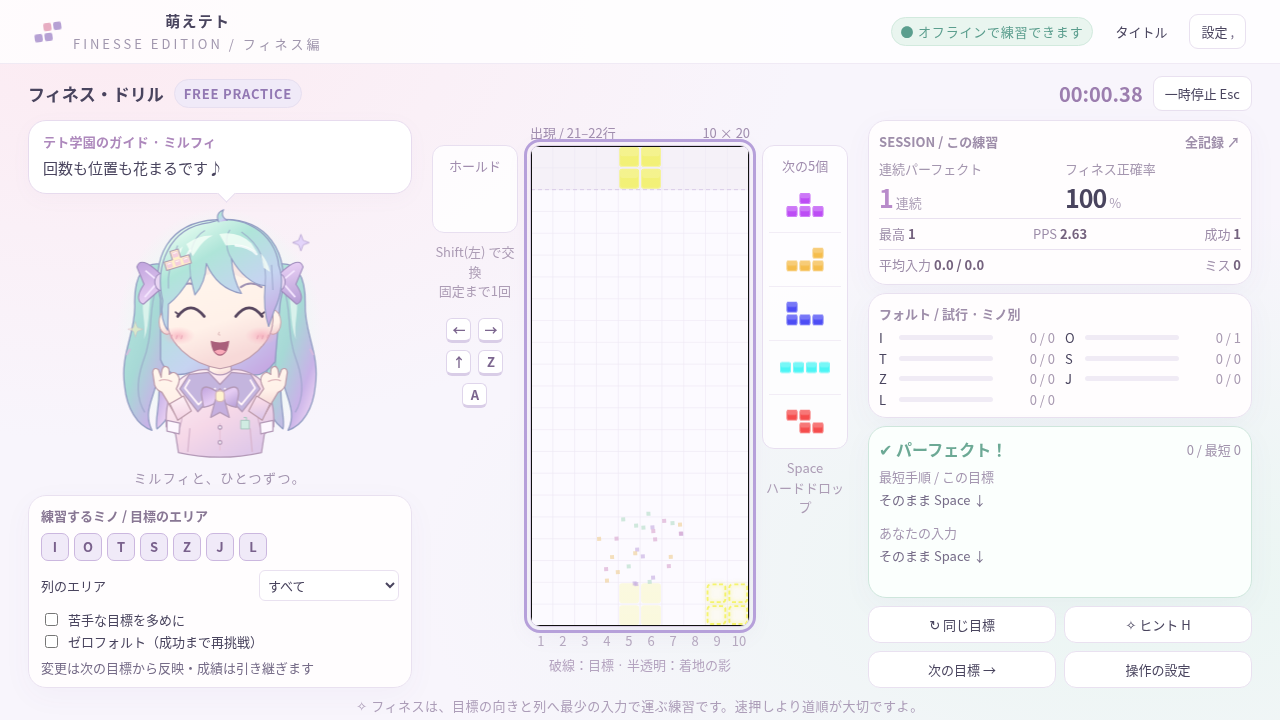
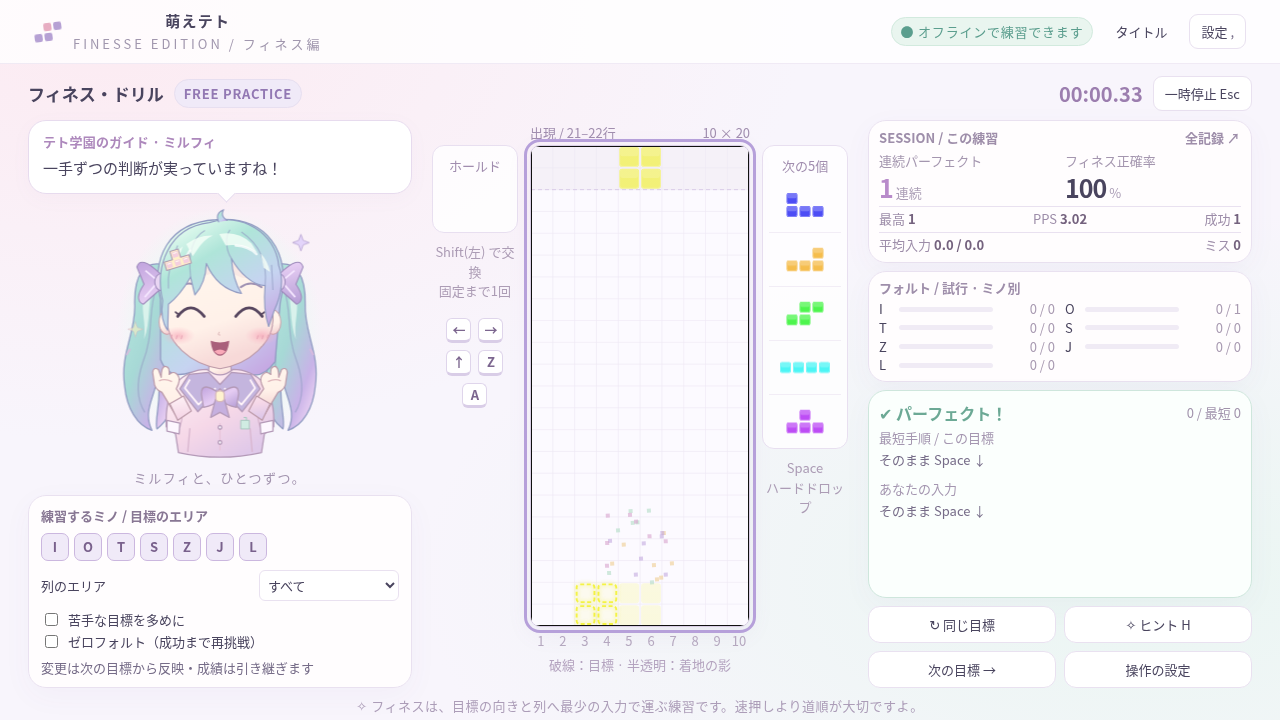
Pass 5: result panel fit, final build and screenshots

diff --git a/dist/moetet-finesse.html b/dist/moetet-finesse.html
@@ -1802,17 +1802,19 @@ body:is([data-screen=menu],[data-screen=tutorial],[data-screen=settings],[data-s
 .checkline,.filter-line { font-size:13px; }
 .filter-line select { width:140px; }
 .right-stack { min-height:0; gap:8px; }
-.right-stack .stats-panel { padding:10px; }
-.right-stack .panel-label { font-size:13px; letter-spacing:0; margin-bottom:7px; }
-.right-stack .stats-strip { font-size:13px; margin-top:6px; padding-top:5px; }
+.right-stack .stats-panel { padding:8px 10px; line-height:1.3; }
+.right-stack .panel-label { font-size:13px; letter-spacing:0; margin-bottom:5px; }
+.right-stack .stats-main label { margin-bottom:2px; }
+.right-stack .stats-strip { font-size:13px; margin-top:4px; padding-top:4px; }
 .stat label,.stat small { font-size:13px; }
-.right-stack .piece-bars { gap:5px 10px; }
+.right-stack .piece-bars { gap:3px 10px; }
 .piece-bar { font-size:13px; grid-template-columns:12px 1fr 54px; }
 .right-stack .piece-bar { line-height:1.2; }
 .right-stack .result-panel { padding:10px; }
 .result-head strong { font-size:16px; }
 .result-head small,.route-label { font-size:13px; letter-spacing:0; }
 .right-stack .result-head { margin-bottom:5px; }
+.right-stack .route-label { margin:4px 0 3px; line-height:1.3; }
 .right-stack .hint-route { margin-top:6px; padding-top:5px; }
 .right-stack .result-panel .sequence { max-height:60px; }
 kbd,.key-help kbd { font-size:13px; }

diff --git a/index.html b/index.html
@@ -1802,17 +1802,19 @@ body:is([data-screen=menu],[data-screen=tutorial],[data-screen=settings],[data-s
 .checkline,.filter-line { font-size:13px; }
 .filter-line select { width:140px; }
 .right-stack { min-height:0; gap:8px; }
-.right-stack .stats-panel { padding:10px; }
-.right-stack .panel-label { font-size:13px; letter-spacing:0; margin-bottom:7px; }
-.right-stack .stats-strip { font-size:13px; margin-top:6px; padding-top:5px; }
+.right-stack .stats-panel { padding:8px 10px; line-height:1.3; }
+.right-stack .panel-label { font-size:13px; letter-spacing:0; margin-bottom:5px; }
+.right-stack .stats-main label { margin-bottom:2px; }
+.right-stack .stats-strip { font-size:13px; margin-top:4px; padding-top:4px; }
 .stat label,.stat small { font-size:13px; }
-.right-stack .piece-bars { gap:5px 10px; }
+.right-stack .piece-bars { gap:3px 10px; }
 .piece-bar { font-size:13px; grid-template-columns:12px 1fr 54px; }
 .right-stack .piece-bar { line-height:1.2; }
 .right-stack .result-panel { padding:10px; }
 .result-head strong { font-size:16px; }
 .result-head small,.route-label { font-size:13px; letter-spacing:0; }
 .right-stack .result-head { margin-bottom:5px; }
+.right-stack .route-label { margin:4px 0 3px; line-height:1.3; }
 .right-stack .hint-route { margin-top:6px; padding-top:5px; }
 .right-stack .result-panel .sequence { max-height:60px; }
 kbd,.key-help kbd { font-size:13px; }

diff --git a/src/style.css b/src/style.css
@@ -1775,17 +1775,19 @@ body:is([data-screen=menu],[data-screen=tutorial],[data-screen=settings],[data-s
 .checkline,.filter-line { font-size:13px; }
 .filter-line select { width:140px; }
 .right-stack { min-height:0; gap:8px; }
-.right-stack .stats-panel { padding:10px; }
-.right-stack .panel-label { font-size:13px; letter-spacing:0; margin-bottom:7px; }
-.right-stack .stats-strip { font-size:13px; margin-top:6px; padding-top:5px; }
+.right-stack .stats-panel { padding:8px 10px; line-height:1.3; }
+.right-stack .panel-label { font-size:13px; letter-spacing:0; margin-bottom:5px; }
+.right-stack .stats-main label { margin-bottom:2px; }
+.right-stack .stats-strip { font-size:13px; margin-top:4px; padding-top:4px; }
 .stat label,.stat small { font-size:13px; }
-.right-stack .piece-bars { gap:5px 10px; }
+.right-stack .piece-bars { gap:3px 10px; }
 .piece-bar { font-size:13px; grid-template-columns:12px 1fr 54px; }
 .right-stack .piece-bar { line-height:1.2; }
 .right-stack .result-panel { padding:10px; }
 .result-head strong { font-size:16px; }
 .result-head small,.route-label { font-size:13px; letter-spacing:0; }
 .right-stack .result-head { margin-bottom:5px; }
+.right-stack .route-label { margin:4px 0 3px; line-height:1.3; }
 .right-stack .hint-route { margin-top:6px; padding-top:5px; }
 .right-stack .result-panel .sequence { max-height:60px; }
 kbd,.key-help kbd { font-size:13px; }

diff --git a/tests/browser.check.js b/tests/browser.check.js
@@ -248,7 +248,15 @@ async function main() {
     assert.equal(s.stats.streak, 0); assert.equal(s.expression, 'thinking');
     await page.keyboard.press('KeyH'); assert.equal((await state()).hint, true);
     assert.equal(await page.locator('#hint-route').isVisible(), true);
-    await checkDrill(); await page.waitForTimeout(350); await shot('drill-fault'); clean();
+    await page.waitForTimeout(350);
+    for (const viewport of [{ width: 1920, height: 1080 }, { width: 1280, height: 720 }]) {
+      await page.setViewportSize(viewport);
+      await checkDrill();
+      await checkViewport(`drill fault ${viewport.width}x${viewport.height}`, ['#result-panel', '#hint-route']);
+      const result = await page.locator('#result-panel').evaluate(el => ({ scrollHeight: el.scrollHeight, clientHeight: el.clientHeight }));
+      assert.ok(result.scrollHeight <= result.clientHeight, `Drill fault result clipped at ${viewport.width}x${viewport.height}: ${JSON.stringify(result)}`);
+    }
+    await shot('drill-fault'); clean();
 
     // A miss is separate from finesse faults and repeats the same cell target.
     await target('O', 0, 0); await ready();
